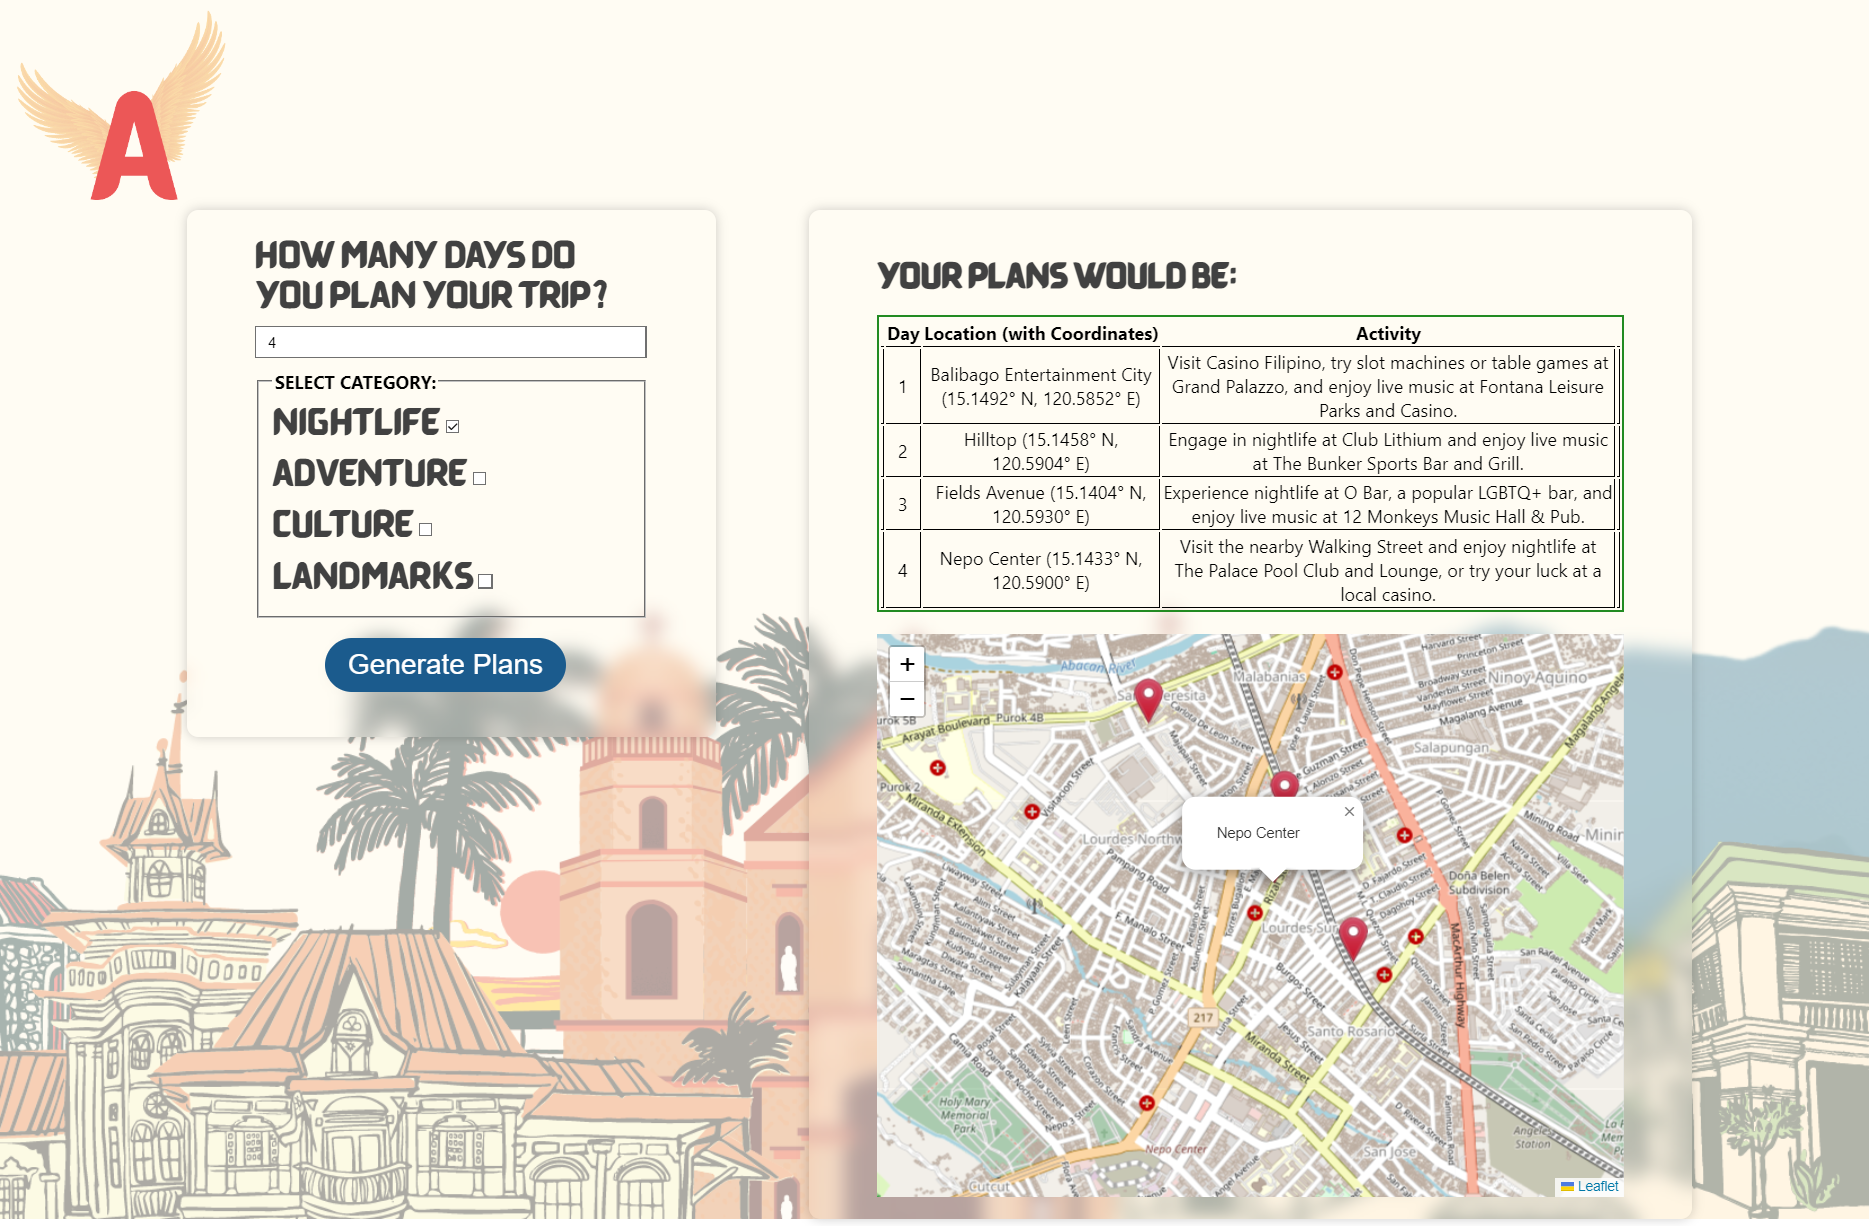
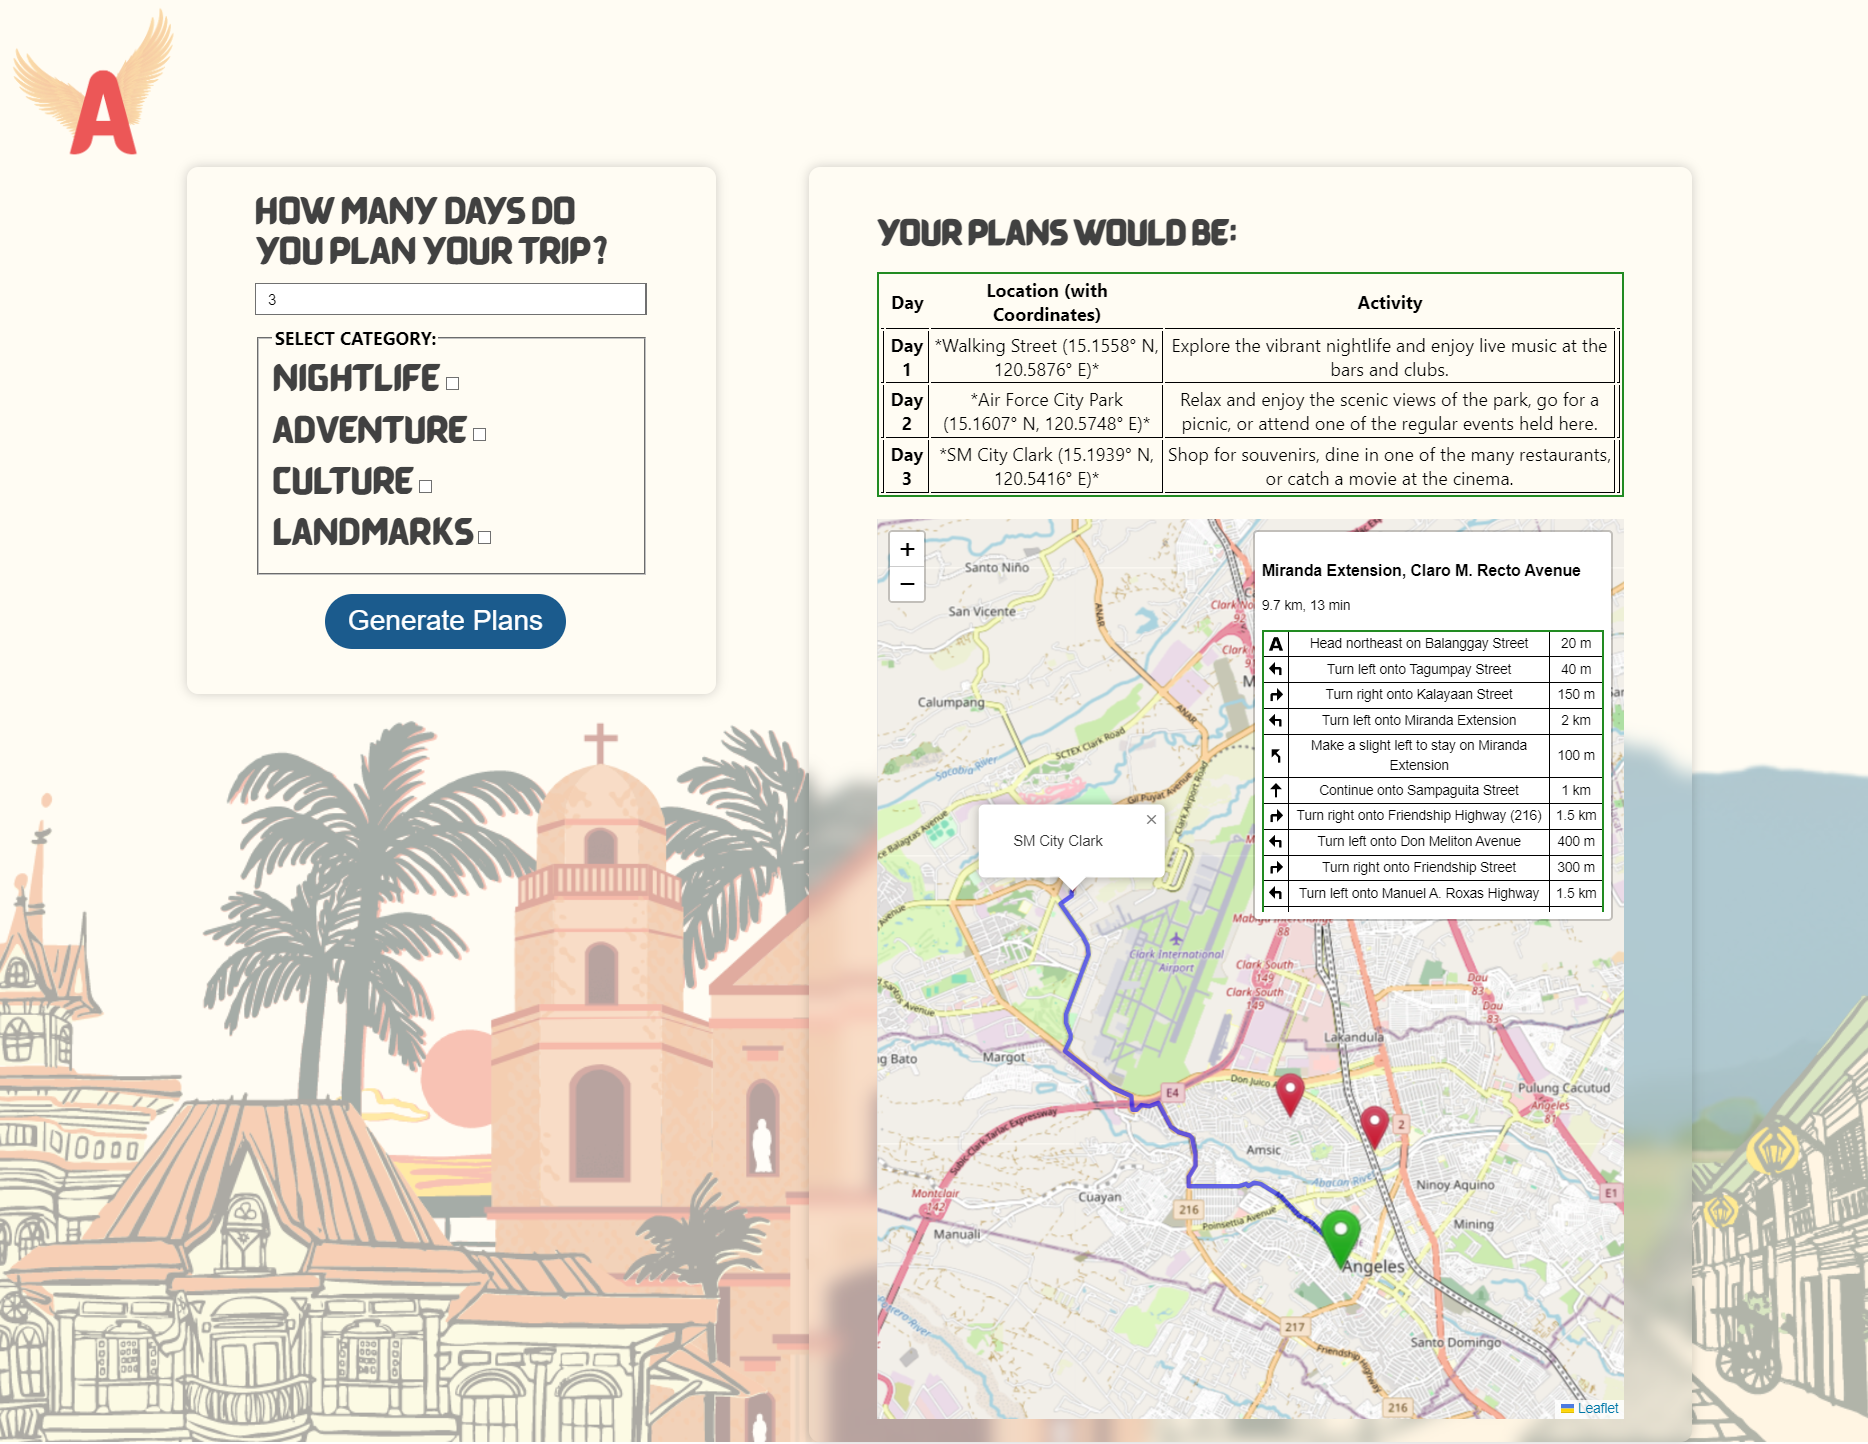
UPDATED

diff --git a/web/front-end/src/webpages/thirdscreen/category.js b/web/front-end/src/webpages/thirdscreen/category.js
@@ -3,9 +3,62 @@ import axios from "axios";
 import Logo from "./Logo.png";
 import "./category.css";
 import FormattedText from "./formating";
-import { MapContainer, TileLayer, Marker, Popup } from "react-leaflet";
+import { MapContainer, TileLayer, Marker, Popup, useMap } from "react-leaflet";
 import { latLngBounds } from "leaflet";
-import { redIcon } from "./leaflet";
+import { redIcon, greenIcon } from "./leaflet";
+import "leaflet-routing-machine";
+import "leaflet-routing-machine/dist/leaflet-routing-machine.css";
+import L from "leaflet";
+
+function MapComponent({ currentLocation, locations, selectedLocation }) {
+  const map = useMap();
+  const routingControlRef = useRef(null);
+
+  useEffect(() => {
+    if (routingControlRef.current) {
+      map.removeControl(routingControlRef.current);
+    }
+
+    if (currentLocation && locations.length > 0 && selectedLocation !== null) {
+      const waypoints = [
+        L.latLng(currentLocation.lat, currentLocation.lng),
+        L.latLng(locations[selectedLocation].coordinates[0], locations[selectedLocation].coordinates[1])
+      ];
+
+      // Remove previous routing line if it exists
+      if (routingControlRef.current) {
+        map.removeControl(routingControlRef.current);
+      }
+
+      // Create new routing line
+      const routingControl = L.Routing.control({
+        waypoints: waypoints,
+        router: new L.Routing.osrmv1({
+          serviceUrl: "http://router.project-osrm.org/route/v1",
+        }),
+        routeWhileDragging: true, // Enable route update while dragging
+        draggableWaypoints: false, // Disable waypoint dragging
+        addWaypoints: false, // Disable adding new waypoints
+        fitSelectedRoutes: 'smart', // Fit the map bounds to the selected route
+        lineOptions: {
+          styles: [{ color: 'blue', opacity: 0.6, weight: 4 }]
+        },
+        createMarker: function(i, waypoint, n) {
+          return L.marker(waypoint.latLng, {
+            draggable: false, // Make the marker non-draggable
+            icon: new L.DivIcon({ className: 'routing-icon', iconSize: [10, 10] }),
+            zIndexOffset: 1000 + i * n
+          });
+        }
+      }).addTo(map);
+
+      // Store reference to the new routing control
+      routingControlRef.current = routingControl;
+    }
+  }, [currentLocation, locations, map, selectedLocation]);
+
+  return null;
+}
 
 function App() {
   const [days, setDays] = useState("");
@@ -19,7 +72,25 @@ function App() {
   const [loading, setLoading] = useState(false);
   const [errorMessage, setErrorMessage] = useState("");
   const [locations, setLocations] = useState([]);
+  const [currentLocation, setCurrentLocation] = useState(null);
+  const [selectedLocation, setSelectedLocation] = useState(null);
   const mapRef = useRef(null);
+
+  useEffect(() => {
+    // Get user's current location
+    navigator.geolocation.getCurrentPosition(
+      (position) => {
+        setCurrentLocation({
+          lat: position.coords.latitude,
+          lng: position.coords.longitude
+        });
+      },
+      (error) => {
+        console.error("Error getting current location:", error);
+        setErrorMessage("Error getting current location");
+      }
+    );
+  }, []);
 
   useEffect(() => {
     if (generatedResponse) {
@@ -59,14 +130,19 @@ function App() {
   const handleSubmit = async (e) => {
     e.preventDefault();
     setLoading(true);
-
+  
+    // Check if the number of days is valid
+    if (!days || (days < 1 || days > 14)) {
+      setErrorMessage("Please enter a valid number of days (1-14).");
+      setLoading(false);
+      return;
+    }
+  
     const selectedActivities = Object.entries(activities)
       .filter(([_, selected]) => selected)
-      .map(([activity, _]) => activity)
-      .join(", ");
-
-    const prompt = `Plan vacation for ${days} days within Angeles City only in table form  (use this format| Day | Location (with the accurate coordinates) | Activity |). Activities: ${selectedActivities} (be accurate and depends on the day inputted)`;
-
+      .map(([activity, _]) => activity);
+  
+    const prompt = `Plan vacation for ${days} days within Angeles City only in table form  (use this format| Day | Location (with the accurate coordinate) | Activity |). Activities: ${selectedActivities.join(", ")} (be accurate and give only ${days} location)`;
     try {
       const response = await axios.post(
         "http://127.0.0.1:8000/api/v1/chats/create/",
@@ -93,6 +169,10 @@ function App() {
       ...prevActivities,
       [activity]: !prevActivities[activity],
     }));
+  };
+
+  const handleMarkerClick = (index) => {
+    setSelectedLocation(index);
   };
 
   return (
@@ -154,19 +234,22 @@ function App() {
                 </p>
               </div>
               {}
-              {generatedResponse && (
+              {generatedResponse && currentLocation && (
                 <div className="leaflet-container">
-                  <MapContainer ref={mapRef} center={[51.505, -0.09]} zoom={3}>
+                  <MapContainer ref={mapRef} center={currentLocation} zoom={8}>
                     <TileLayer url="https://{s}.tile.openstreetmap.org/{z}/{x}/{y}.png" />
                     {locations.map((location, index) => (
-                      <Marker
-                        key={index}
-                        position={location.coordinates}
-                        icon={redIcon}
-                      >
-                        <Popup>{location.name}</Popup>
+                      <Marker key={index} position={location.coordinates} icon={redIcon} eventHandlers={{click: () => handleMarkerClick(index)}}>
+                        <Popup >{location.name}</Popup>
                       </Marker>
                     ))}
+                    {/* Current location marker */}
+                    {currentLocation && (
+                      <Marker position={currentLocation} icon={greenIcon}>
+                        <Popup autoOpen={true}><b>Your current location</b></Popup>
+                      </Marker>
+                    )}
+                    <MapComponent currentLocation={currentLocation} locations={locations} selectedLocation={selectedLocation} />
                   </MapContainer>
                 </div>
               )}

diff --git a/web/front-end/src/webpages/thirdscreen/category.css b/web/front-end/src/webpages/thirdscreen/category.css
@@ -145,7 +145,7 @@ input[type="checkbox"] {
 
 .leaflet-container {
   width: 100%;
-  height: 400px;
+  height: 800px;
   margin-top: 20px;
 }
 
@@ -173,4 +173,10 @@ td {
   text-align: center;
   border-bottom: 1px solid black;
   border-right: 1px solid black;
+}
+
+
+.leaflet-marker-draggable {
+  pointer-events: none; /* Disable pointer events to prevent dragging */
+  cursor: default; /* Set cursor to default to indicate marker is not draggable */
 }

diff --git a/web/front-end/src/webpages/thirdscreen/leaflet.js b/web/front-end/src/webpages/thirdscreen/leaflet.js
@@ -6,4 +6,14 @@ const redIcon = new L.Icon({
   iconAnchor: [12, 41],
 });
 
-export { redIcon };
+
+// Green icon
+const greenIcon = new L.Icon({
+  iconUrl: 'https://raw.githubusercontent.com/pointhi/leaflet-color-markers/master/img/marker-icon-green.png',
+  iconSize: [35, 55], // Increase size here
+  iconAnchor: [12, 41],
+});
+
+
+export { redIcon, greenIcon };
+

diff --git a/server/core/settings.py b/server/core/settings.py
@@ -41,6 +41,8 @@ MIDDLEWARE = [
     'corsheaders.middleware.CorsMiddleware',
 ]
 
+
+
 ROOT_URLCONF = 'core.urls'
 
 TEMPLATES = [
